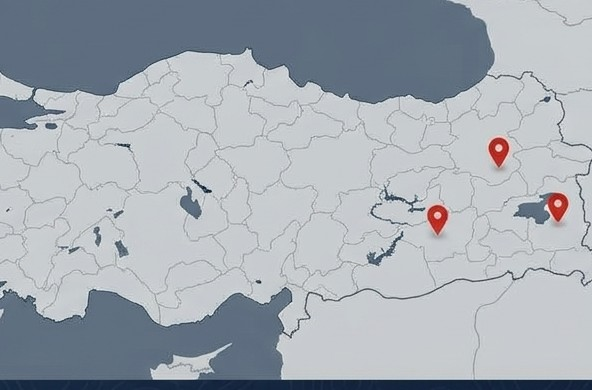
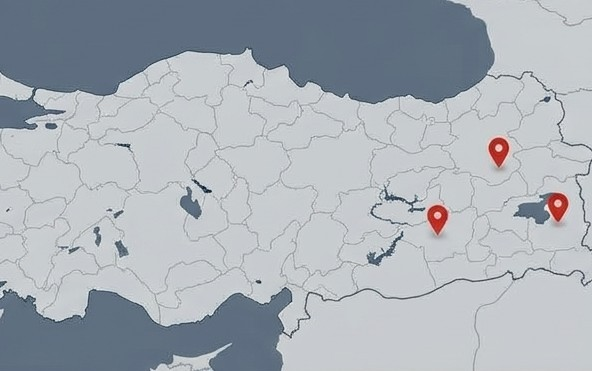
tablet responsive

diff --git a/src/pages/Needs/Needs.css b/src/pages/Needs/Needs.css
@@ -54,6 +54,7 @@
     display: grid;
     grid-template-columns: repeat(3, 1fr);
     gap: 15px;
+   
 }
 
 .need-card {
@@ -114,8 +115,7 @@
 }
 
 .needs-card-left {
-    background-color: #243447;
-
+    background-color: #8b9daf;
     width: 600px;
     margin-top: 15px;
     border-radius: 10px;
@@ -157,6 +157,7 @@
     object-fit: cover;
     border-radius: 10px;
     margin: 10px auto 0;
+    border: 1px solid #243447;
 
 }
 
@@ -170,6 +171,15 @@
     color: #fff;
 }
 
+.urgent-needs{
+    border: 1px solid #24344759;
+    border-radius: 5px;
+    padding: 5px;
+    width: 90%;
+    margin: 0 auto;
+    margin-top: 5px;
+}
+
 .urgent-text {
     display: flex;
     align-items: center;
@@ -181,6 +191,7 @@
     display: block;
     width: 90%;
     margin: 0 auto;
+   
 }
 
 .urgent-needs-bottom ul li {
@@ -192,4 +203,122 @@
 
 }
 
-.urgent-needs-bottom ul {}
+
+
+@media (max-width: 900px) {
+
+.needs-bottom{
+display: grid;
+grid-template-columns: 1fr;
+}
+ 
+.needs-cards{
+    display: grid;
+    grid-template-columns: repeat(2,1fr);
+}
+
+.needs-card-left{
+   width: 100%;
+  
+}
+.need-card img {
+    width: 80px;
+    height: 80px;
+    object-fit: cover;
+    flex-shrink: 0;
+}
+
+/* Tablet */
+@media (min-width: 601px) and (max-width: 900px) {
+    .needs-container {
+        width: calc(100% - 32px);
+       
+    }
+
+    .needs-top {
+        flex-direction: column;
+        gap: 24px;
+        padding: 24px;
+        
+    }
+
+    .needs-top-text h1 {
+        font-size: 28px;
+        line-height: 1.3;
+    }
+
+    .needs-top-text h1 br {
+        display: none;
+    }
+
+    .info-right {
+        justify-content: flex-start;
+        gap: 40px;
+     
+    }
+
+    .needs-bottom {
+        display: grid;
+        grid-template-columns: 1fr;
+        gap: 20px;
+    }
+
+  
+
+    .needs-buttons {
+        flex-wrap: wrap;
+        gap: 10px;
+    }
+
+    .needs-cards {
+        grid-template-columns: repeat(2, minmax(0, 1fr));
+        gap: 12px;
+    }
+
+    .need-card {
+        margin-top: 0;
+        padding: 12px;
+        align-items: center;
+        min-width: 0;
+    }
+
+    .need-card img {
+        width: 75px;
+        height: 75px;
+        object-fit: cover;
+        flex-shrink: 0;
+    }
+
+    .need-card-content {
+        margin-left: 12px;
+        min-width: 0;
+    }
+
+    .need-card-content h3 {
+        font-size: 16px;
+    }
+
+    .need-card-content p {
+        font-size: 14px;
+        overflow-wrap: break-word;
+    }
+
+    .needs-card-left {
+        width: 100%;
+        box-sizing: border-box;
+        padding: 10px 0;
+        
+    }
+
+    
+}
+
+}
+
+
+@media (max-width: 600px) {
+
+
+ 
+}
+
